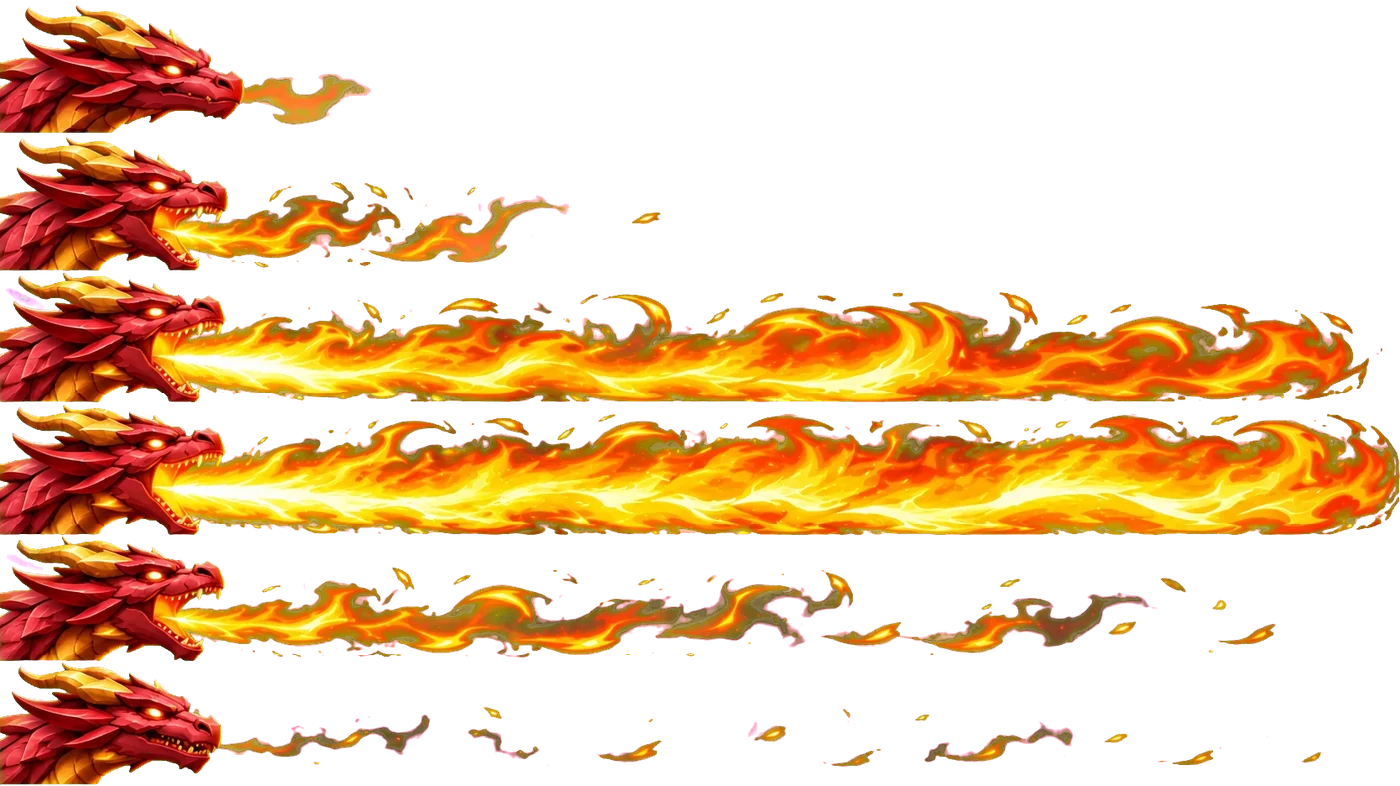
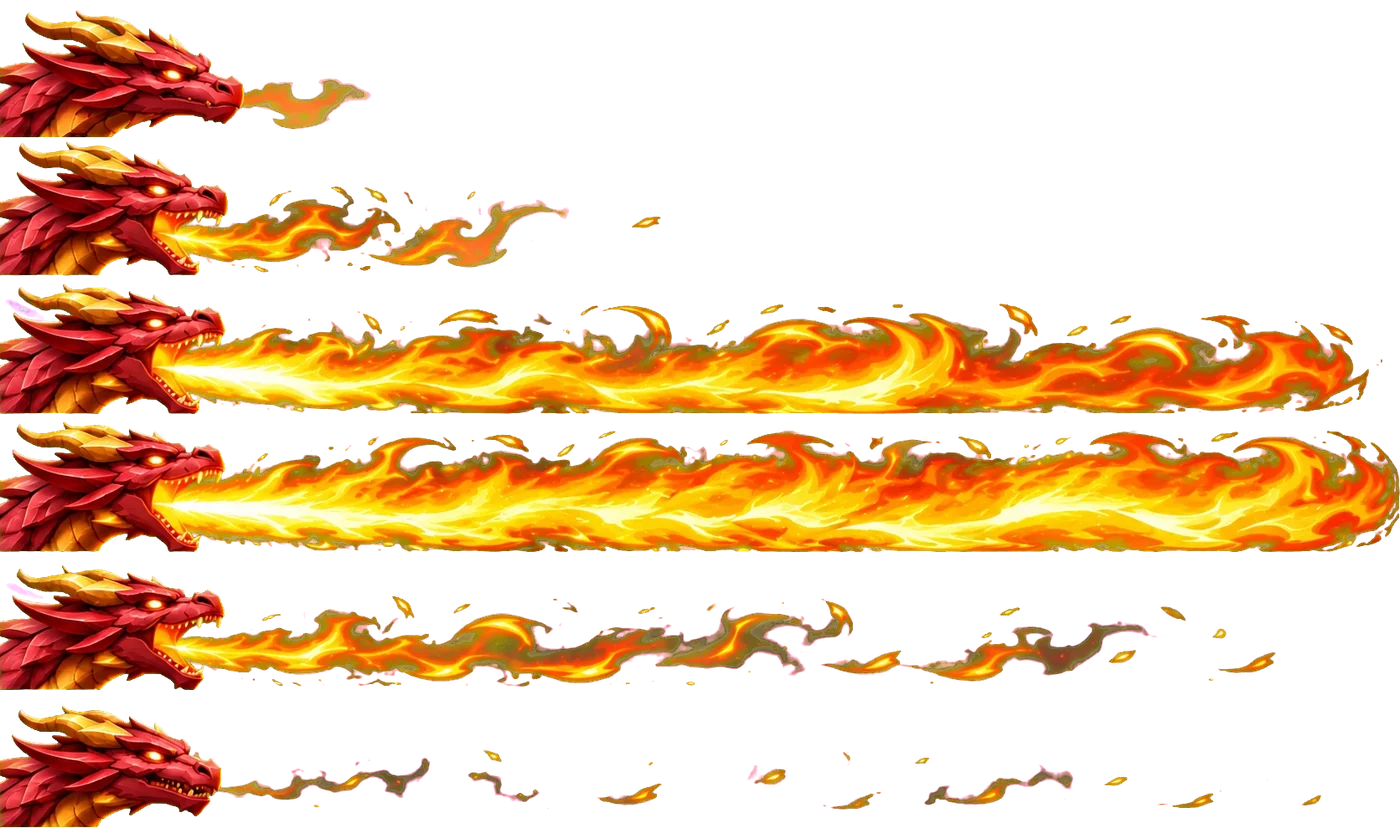
Animated lane-edge fire for Orc Fury; faster fury burst with skull mark under each troop; dragon breath strip not clipped; summoned melee is never hit before its first strike; rows fill from the centre
Claude-Session: https://claude.ai/code/session_019FHBnxKyTVWzaJqkftQpoS

diff --git a/web/js/render.js b/web/js/render.js
@@ -193,7 +193,7 @@
             for (const u of m.units) if (u.hp > 0 && u.owner === e.player && u.lane === e.lane) {
               const uv = this.views.get(u.id); if (!uv) continue;
               const bh = this.bodyH(u), delay = (i++) * 0.08;
-              this.fx.push({ k: 'anim', key: 'fx_orc_rage', x: uv.x, y: uv.y + 6, h: bh * 1.5, t: -delay, d: 1.8 });
+              this.fx.push({ k: 'anim', key: 'fx_orc_rage', x: uv.x, y: uv.y + 6, h: bh * 1.5, t: -delay, d: 1.1, ease: 1 });
             }
             if (this.fxSheet('fx_orc_rage')) break;
           }
@@ -235,7 +235,7 @@
                 if (meta.vert) { // tira: a cabeça na parede do castelo e o fogo cobrindo a rota inteira
                   const w = (l.xR - l.xL) + 160, h = meta.h * (w / meta.w);
                   const x = e.player === 0 ? l.xL - 90 + w / 2 : l.xR + 90 - w / 2;
-                  this.fx.push({ k: 'anim', key, x, y: l.y + h * 0.42, w, t: 0, d: 1.6, flip: e.player === 1 });
+                  this.fx.push({ k: 'anim', key, x, y: l.y + h * 0.3, w, t: 0, d: 1.6, flip: e.player === 1 });
                   this.shake = Math.max(this.shake, 0.4);
                 } else {
                   const h = lh * 1.9, w = meta.w * (h / meta.h);
@@ -359,15 +359,19 @@
         const gr = g.createLinearGradient(0, l.y0, 0, l.y1);
         gr.addColorStop(0, 'rgba(255,40,20,' + (pulse + 0.1) + ')'); gr.addColorStop(0.5, 'rgba(200,20,10,' + pulse + ')'); gr.addColorStop(1, 'rgba(255,40,20,' + (pulse + 0.1) + ')');
         g.fillStyle = gr; g.fillRect(l.xL - 40, l.y0, l.xR - l.xL + 80, l.y1 - l.y0);
-        g.globalCompositeOperation = 'lighter';
-        for (const ey of [l.y0, l.y1]) { // chamas ao longo das duas linhas da rota
-          for (let x = l.xL - 30; x < l.xR + 30; x += 18) {
-            const seed = x * 0.37 + ey, f = 0.5 + 0.5 * Math.sin(this.t * 11 + seed) * Math.sin(this.t * 7.3 + seed * 1.7);
-            const h = 16 + 22 * f, w = 9 + 3 * f;
+        const fire = this.fxSheet('fx_lane_fire'), meta = BB.FX.fx_lane_fire;
+        if (fire && meta) { // fogo animado (tira em loop) ao longo das duas linhas da rota
+          const fr = Math.floor(this.t * 12) % meta.n, h = 46, w = meta.w * (h / meta.h), x0 = l.xL - 40, x1 = l.xR + 40;
+          for (const ey of [l.y0 + 6, l.y1 + 4]) for (let x = x0; x < x1; x += w) {
+            const cw = Math.min(w, x1 - x);
+            g.drawImage(fire, 0, fr * meta.h, meta.w * (cw / w), meta.h, x, ey - h, cw, h);
+          }
+        } else {
+          g.globalCompositeOperation = 'lighter';
+          for (const ey of [l.y0, l.y1]) for (let x = l.xL - 30; x < l.xR + 30; x += 18) {
+            const seed = x * 0.37 + ey, f = 0.5 + 0.5 * Math.sin(this.t * 11 + seed) * Math.sin(this.t * 7.3 + seed * 1.7), h = 16 + 22 * f, w = 9 + 3 * f;
             g.fillStyle = 'rgba(255,' + Math.round(90 + 90 * f) + ',20,.75)';
             g.beginPath(); g.moveTo(x - w, ey); g.quadraticCurveTo(x - w * 0.6, ey - h * 0.6, x, ey - h); g.quadraticCurveTo(x + w * 0.6, ey - h * 0.6, x + w, ey); g.closePath(); g.fill();
-            g.fillStyle = 'rgba(255,240,150,.7)';
-            g.beginPath(); g.ellipse(x, ey - h * 0.25, w * 0.35, h * 0.25, 0, 0, TAU); g.fill();
           }
         }
         g.restore();
@@ -807,7 +811,7 @@
         for (const u of group) {
           const x = tx.get(u.id), gap = bodyW(u) * 0.95;
           // grandes preferem a fileira de trás, pequenas a da frente (não ficam escondidas)
-          const pref = u.def.hp >= 1200 ? [1, 0, 2] : u.def.hp < 500 ? [2, 0, 1] : [0, 1, 2]; // índices em ROWS = [0, -1, 1]
+          const pref = u.def.hp >= 1200 ? [0, 1, 2] : u.def.hp < 500 ? [0, 2, 1] : [0, 1, 2]; // índices em ROWS = [0, -1, 1]: centro primeiro
           let r = pref.find((i) => lastX[i] === null || dir * (lastX[i] - x) >= gap); if (r === undefined) r = -1;
           if (r < 0) { // todas as fileiras ocupadas: recua na fileira com mais espaço
             r = 0; let best = -Infinity;
@@ -926,8 +930,9 @@
         const gr = g.createRadialGradient(v.x, v.y - bodyPx * 0.4, 0, v.x, v.y - bodyPx * 0.4, bodyPx * 0.7);
         gr.addColorStop(0, 'rgba(255,90,30,' + a * 0.5 + ')'); gr.addColorStop(1, 'rgba(255,40,10,0)');
         g.fillStyle = gr; g.beginPath(); g.ellipse(v.x, v.y - bodyPx * 0.4, w, bodyPx * 0.7, 0, 0, TAU); g.fill();
-        g.fillStyle = 'rgba(255,70,20,' + a + ')'; g.beginPath(); g.ellipse(v.x, v.y, w, bodyPx * 0.15, 0, 0, TAU); g.fill();
         g.restore();
+        const rs = this.fxSheet('fx_orc_rage'), rm = BB.FX.fx_orc_rage; // marca da caveira no chão (1º quadro do efeito)
+        if (rs && rm) { const dw = bodyPx * 1.6, dh = rm.h * (dw / rm.w); g.save(); g.globalAlpha = 0.75 + 0.25 * Math.sin(this.t * 6); g.drawImage(rs, 0, 0, rm.w, rm.h, v.x - dw / 2, v.y + dh * 0.04 - dh, dw, dh); g.restore(); }
         if (Math.random() < 0.25) this.fx.push({ k: 'spark', x: v.x + (Math.random() - 0.5) * w, y: v.y - Math.random() * bodyPx * 0.8, vx: (Math.random() - 0.5) * 40, vy: -160 - Math.random() * 120, t: 0, d: 0.5 });
       }
       if (u.enraged && v.dying < 0) { const a = 0.3 + 0.15 * Math.sin(this.t * 10); g.save(); g.globalAlpha = a; g.fillStyle = '#ff3a1a'; g.beginPath(); g.ellipse(v.x, v.y, bodyPx * 0.5, bodyPx * 0.16, 0, 0, TAU); g.fill(); g.restore(); }
@@ -1068,7 +1073,7 @@
         } else if (f.k === 'anim') {
           const meta = BB.FX[f.key], sheet = this.fxSheet(f.key);
           if (!sheet) continue;
-          const fr = Math.min(meta.n - 1, Math.floor(k * meta.n));
+          const fr = Math.min(meta.n - 1, Math.floor((f.ease ? Math.pow(k, 0.6) : k) * meta.n)); // ease: aparece rápido
           const sc = f.w ? f.w / meta.w : f.h / meta.h, w = meta.w * sc, h = meta.h * sc;
           g.save(); g.translate(f.x, f.y); if (f.flip) g.scale(-1, 1);
           g.drawImage(sheet, meta.vert ? 0 : fr * meta.w, meta.vert ? fr * meta.h : 0, meta.w, meta.h, -w / 2, -h, w, h);

diff --git a/web/js/sim.js b/web/js/sim.js
@@ -275,15 +275,9 @@
         const I = def.attackInterval || 1, tEnd = this.time + B.deployDelay;
         u.attackCd = Math.ceil(tEnd / I - 1e-6) * I - tEnd;
       }
-      // invocada no meio da luta: os inimigos de corpo a corpo que já estão ao alcance esperam e batem junto com ela
-      // (ela não apanha antes de conseguir atacar); quem ataca de longe continua normal
-      if (def.range <= 4 && !def.flying && def.targets !== 'CastleOnly') {
-        const first = u.deploy + u.attackCd, reach = 6 + this.bodyR(def);
-        for (const e of this.units) {
-          if (e.hp <= 0 || e.owner === owner || e.lane !== lane || e.def.range > 4 || Math.abs(e.x - u.x) > reach + e.def.range + this.bodyR(e.def)) continue;
-          e.attackCd = Math.max(e.attackCd, first);
-        }
-      }
+      // corpo a corpo recém-invocado: os inimigos de corpo a corpo que forem bater nele esperam o primeiro golpe dele
+      // e batem juntos (ele não apanha antes de conseguir atacar); quem ataca de longe continua normal
+      if (def.range <= 4 && def.targets !== 'CastleOnly') { u.waitFirst = true; u.attackCd = 0; }
       this.units.push(u);
       this.emit('UnitSpawned', owner, { unitId: u.id, lane, x: u.x, id: def.id });
       if (def.ability === 'Hex') this.hexLane(u);
@@ -361,6 +355,8 @@
       const target = this.findTarget(u);
       if (target) {
         u.state = 'Attacking'; u.targetId = target.id;
+        if (target.waitFirst && target.stun > 0) target.waitFirst = false; // paralisado não fica protegido
+        if (target.waitFirst && d.range <= 4) u.attackCd = Math.max(u.attackCd, target.deploy + target.attackCd);
         if (u.attackCd <= 0) { u.attackCd = Math.max(0, u.attackCd + d.attackInterval); this.attack(u, target, m.dmg, true); }
         return;
       }
@@ -426,6 +422,7 @@
 
     attack(u, target, dmgMult, delayed) {
       const d = u.def;
+      u.waitFirst = false;
       this.emit('UnitAttack', u.owner, { unitId: u.id, targetId: target.id, lane: u.lane, x: target.x, value: u.damage * dmgMult, id: d.id });
       if (delayed && (this.B.hitDelay || 0) > 0) { this.queueHit({ u, target, mult: dmgMult }); return; }
       this.doHit(u, target, dmgMult);

diff --git a/web/js/strips.js b/web/js/strips.js
@@ -3,9 +3,16 @@ window.BB = window.BB || {};
 Object.assign(BB.FX = BB.FX || {}, {
  "fx_dragon_breath": {
   "w": 1400,
-  "h": 131,
+  "h": 138,
   "n": 6,
   "vert": 1,
   "src": "img/units/fx_dragon_breath_g.webp"
+ },
+ "fx_lane_fire": {
+  "w": 1400,
+  "h": 122,
+  "n": 6,
+  "vert": 1,
+  "src": "img/units/fx_lane_fire_g.webp"
  }
 });

diff --git a/tools/extract-strip.py b/tools/extract-strip.py
@@ -21,7 +21,19 @@ col[..., 1] = np.where(gr > 0, np.minimum(col[..., 1], col[..., 0] * 0.8), col[.
 rgba = np.dstack([col, al * 255]).astype(np.uint8)
 H, W = al.shape; bh = H / n
 xs = np.nonzero((al > 0.1).any(axis=0))[0]; x1 = xs.max() + 1
-frames = [Image.fromarray(rgba[int(i * bh):int((i + 1) * bh), :x1]) for i in range(n)]
+# divisões entre as tiras: linha mais vazia perto de cada divisão igual (não corta o fogo que encosta na borda)
+rowsum = (al > 0.1).sum(axis=1)
+cuts = [0]
+for i in range(1, n):
+    c = int(i * bh); lo, hi = int(c - bh * 0.25), int(c + bh * 0.25)
+    cuts.append(lo + int(np.argmin(rowsum[lo:hi])))
+cuts.append(H)
+frames = [Image.fromarray(rgba[cuts[i]:cuts[i + 1], :x1]) for i in range(n)]
+# alinha pela base: cada tira vai para uma moldura do mesmo tamanho com o fundo da arte embaixo
+bottoms = [np.nonzero((np.asarray(f)[..., 3] > 25).any(axis=1))[0].max() + 1 for f in frames]
+tops = [np.nonzero((np.asarray(f)[..., 3] > 25).any(axis=1))[0].min() for f in frames]
+up = max(b - t for b, t in zip(bottoms, tops)) + 4
+frames = [f.crop((0, b - up, x1, b)) for f, b in zip(frames, bottoms)]
 fh = min(f.height for f in frames); fw = x1
 s = min(1.0, 1400 / fw)
 fw2, fh2 = round(fw * s), round(fh * s)
